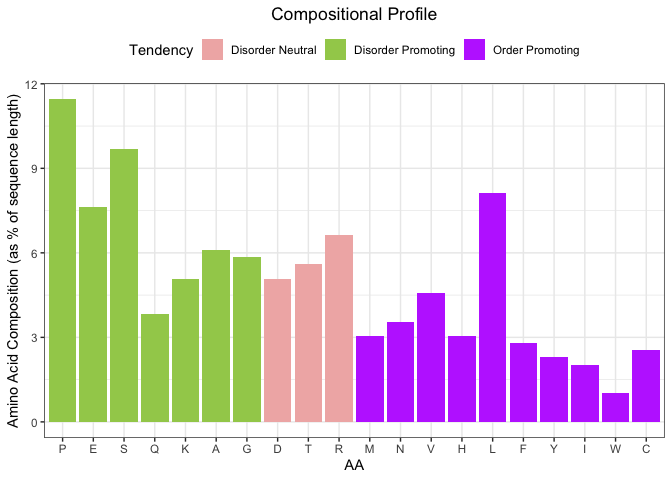
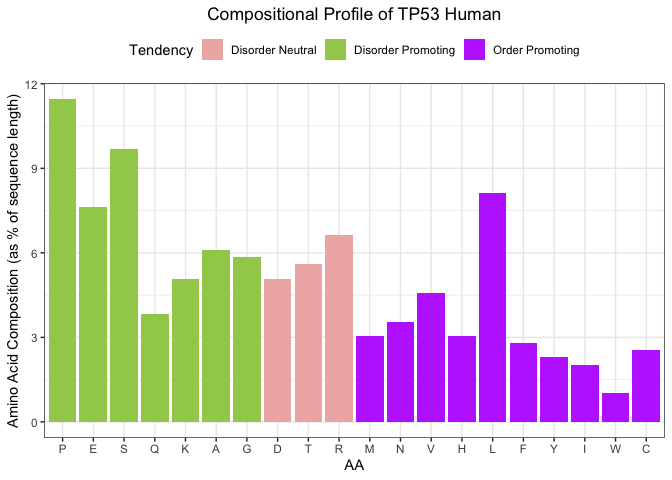
Citation Updates
Adding reference to PLOS ONE publication

Changed region(s): [[0.3125, 0.0, 0.75, 0.0625]]

diff --git a/README.md b/README.md
@@ -8,13 +8,15 @@ of intrinsically disordered proteins within R. This package is used to
 identify known characteristics of IDPs within a sequence of interest
 with easily reported and dynamic results. Additionally, this package
 also includes tools for IDP-based sequence analysis to be used in
-conjunction with other R packages.
+conjunction with other R packages. See our recently published
+peer-reviewed publication in [PLOS ONE
+(https://doi.org/10.1371/journal.pone.0266929)](https://doi.org/10.1371/journal.pone.0266929)
 
 **Please Refer to idpr-vignette.Rmd file for a detailed introduction to
 the** **idpr package.**
 
 Links to the vignettes found at the [Bioconductor landing page
-(here)](https://doi.org/doi:10.18129/B9.bioc.idpr)
+(here)](https://doi.org/doi:10.18129/B9.bioc.idpr) or
 
 ## Installation
 
@@ -62,8 +64,14 @@ print(P53_HUMAN)
 
 P53_ID <- "P04637" #Human TP53 UniProt ID
 
-idprofile(sequence = P53_HUMAN, #Generates the Profile
-          uniprotAccession = P53_ID)
+#Generates the IDP Profile:
+idprofile(sequence = P53_HUMAN, 
+          uniprotAccession = P53_ID, 
+          proteinName = "TP53 Human", #Optional Argument
+          window = 11, #Optional Argument
+          pKaSet = "Lehninger", #Optional Argument
+          iupredType = "redox" #Optional Argument
+)
 #> [[1]]
 ```
 
@@ -100,34 +108,77 @@ the** **idpr package.** [Link to the Vignette
 
 ## Appendix
 
+For use and details on ‘idpr’, see our peer-reviewed article published
+in [PLOS ONE
+(https://doi.org/10.1371/journal.pone.0266929)](https://doi.org/10.1371/journal.pone.0266929)
+
 ### Package citation
 
 ``` r
 citation("idpr")
 #> 
-#> To cite package 'idpr' in publications use:
+#> To cite idpr in publications, use the citation below and other
+#> function-specific sources found in the idpr package documentation:
 #> 
-#>   William M. McFadden and Judith L. Yanowitz (2020). idpr: Profiling
-#>   and Analyzing Intrinsically Disordered Proteins in R. R package
-#>   version 1.5.11.
+#>   McFadden, W. M., and Yanowitz, J. L. (2022). idpr: A package for
+#>   profiling and analyzing Intrinsically Disordered Proteins in R. PLOS
+#>   ONE, 17(4), e0266929. doi:10.1371/journal.pone.0266929
 #> 
 #> A BibTeX entry for LaTeX users is
 #> 
-#>   @Manual{,
-#>     title = {idpr: Profiling and Analyzing Intrinsically Disordered Proteins in R},
-#>     author = {William M. McFadden and Judith L. Yanowitz},
-#>     year = {2020},
-#>     note = {R package version 1.5.11},
+#>   @Article{,
+#>     title = {idpr: A package for profiling and analyzing Intrinsically Disordered Proteins in R},
+#>     author = {William M McFadden and Judith L Yanowitz},
+#>     journal = {PLOS ONE},
+#>     publisher = {Public Library of Science},
+#>     year = {2022},
+#>     volume = {17},
+#>     number = {4},
+#>     pages = {e0266929},
+#>     doi = {10.1371/journal.pone.0266929},
+#>     url = {https://bioconductor.org/packages/idpr/},
 #>   }
 ```
+
+### Function citations
+
+-   Bálint Mészáros, Gábor Erdős, Zsuzsanna Dosztányi, IUPred2A:
+    context-dependent prediction of protein disorder as a function of
+    redox state and protein binding, Nucleic Acids Research, Volume 46,
+    Issue W1, 2 July 2018, Pages W329–W337,
+    <https://doi.org/10.1093/nar/gky384>
+-   Erdős, G., & Dosztányi, Z. (2020). Analyzing protein disorder with
+    IUPred2A. Current Protocols in Bioinformatics, 70, e99.
+    <https://doi.org/10.1002/cpbi.99>
+-   Kozlowski, L. P. (2016). IPC – Isoelectric Point Calculator. Biology
+    Direct, 11(1), 55. <https://doi.org/10.1186/s13062-016-0159-9>
+-   Kyte, J., & Doolittle, R. F. (1982). A simple method for displaying
+    the hydropathic character of a protein. Journal of molecular
+    biology, 157(1), 105-132.
+-   Nelson, D. L., & Cox, M. M. (2017). Lehninger Principles of
+    Biochemistry (Seventh ed.). New York, NY: W. H. Freeman and Company.
+-   Prilusky, J., Felder, C. E., et al. (2005). FoldIndex: a simple tool
+    to predict whether a given protein sequence is intrinsically
+    unfolded. Bioinformatics, 21(16), 3435-3438.
+-   Uversky, V. N. (2016). Paradoxes and wonders of intrinsic disorder:
+    Complexity of simplicity. Intrinsically Disordered Proteins, 4(1),
+    e1135015. <https://doi.org/10.1080/21690707.2015.1135015>
+-   Uversky, V. N. (2013). A decade and a half of protein intrinsic
+    disorder: Biology still waits for physics. Protein Science, 22(6),
+    693-724. <doi:10.1002/pro.2261>
+-   Uversky, V. N., Gillespie, J. R., & Fink, A. L. (2000). Why are
+    “natively unfolded” proteins unstructured under physiologic
+    conditions?. Proteins: structure, function, and bioinformatics,
+    41(3), 415-427.
+    <https://doi.org/10.1002/1097-0134(20001115)41:3>\<415::AID-PROT130\>3.0.CO;2-7
 
 ### Additional Information
 
 ``` r
 Sys.time()
-#> [1] "2022-03-15 21:15:08 EDT"
+#> [1] "2022-04-25 12:20:36 EDT"
 Sys.Date()
-#> [1] "2022-03-15"
+#> [1] "2022-04-25"
 R.version
 #>                _                           
 #> platform       x86_64-apple-darwin17.0     
